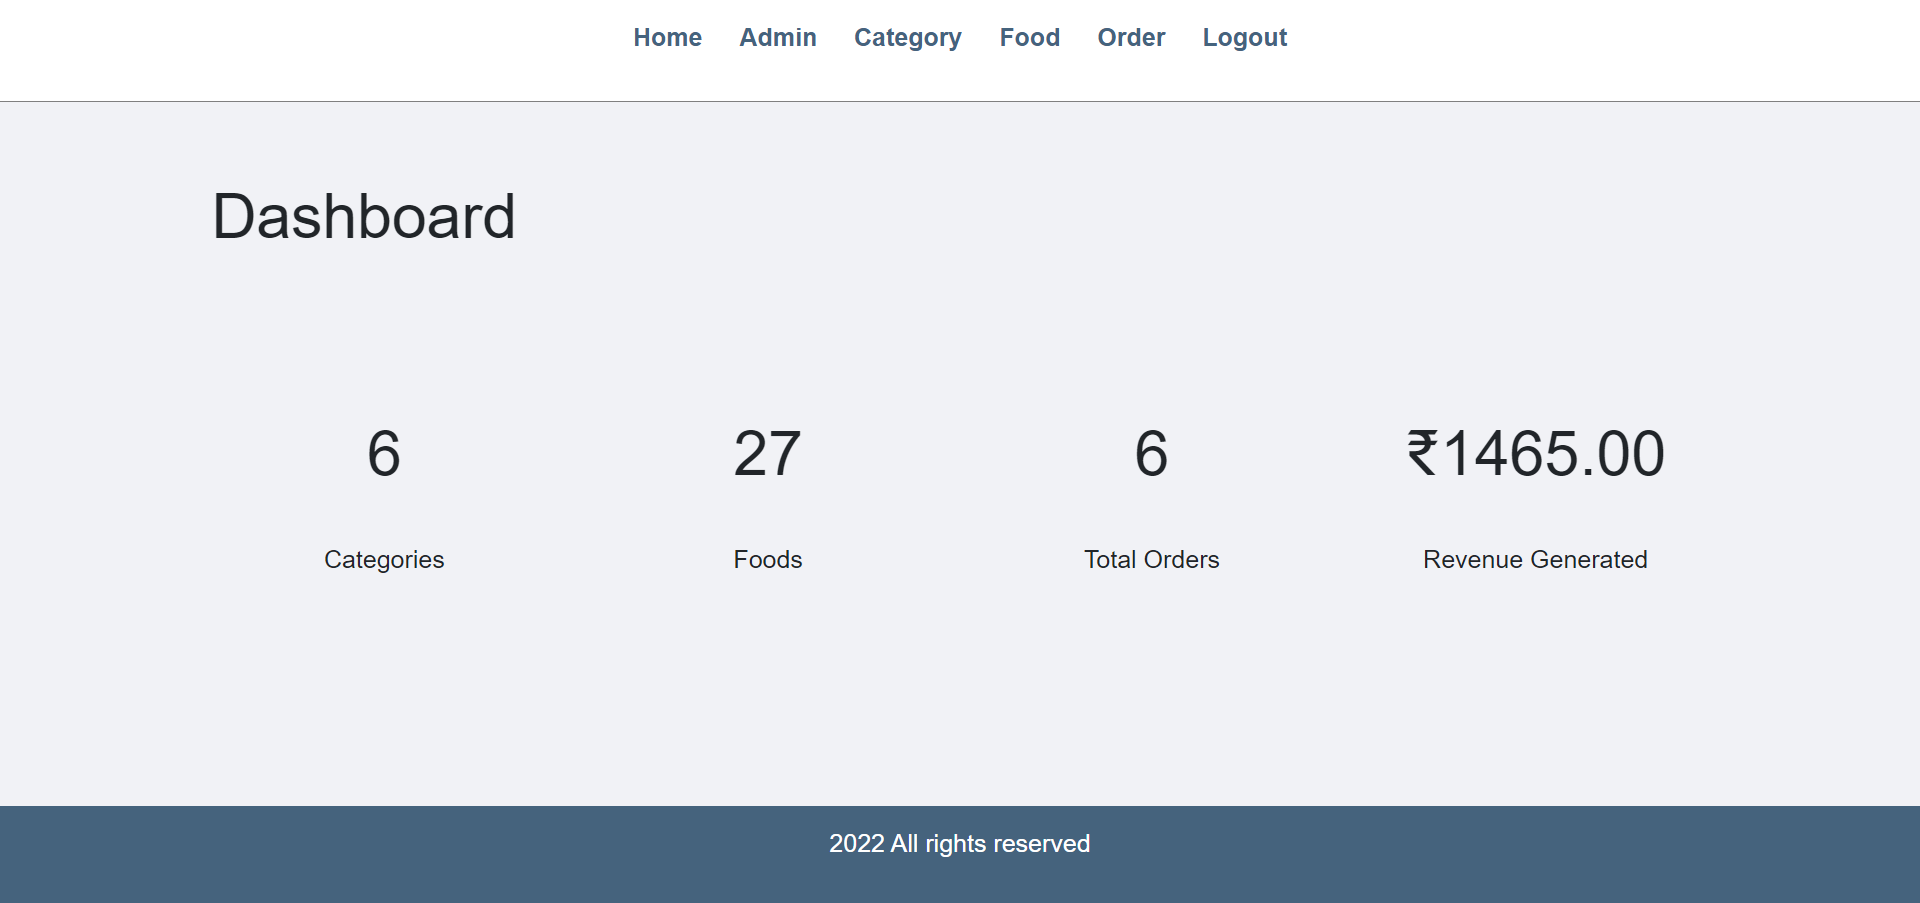
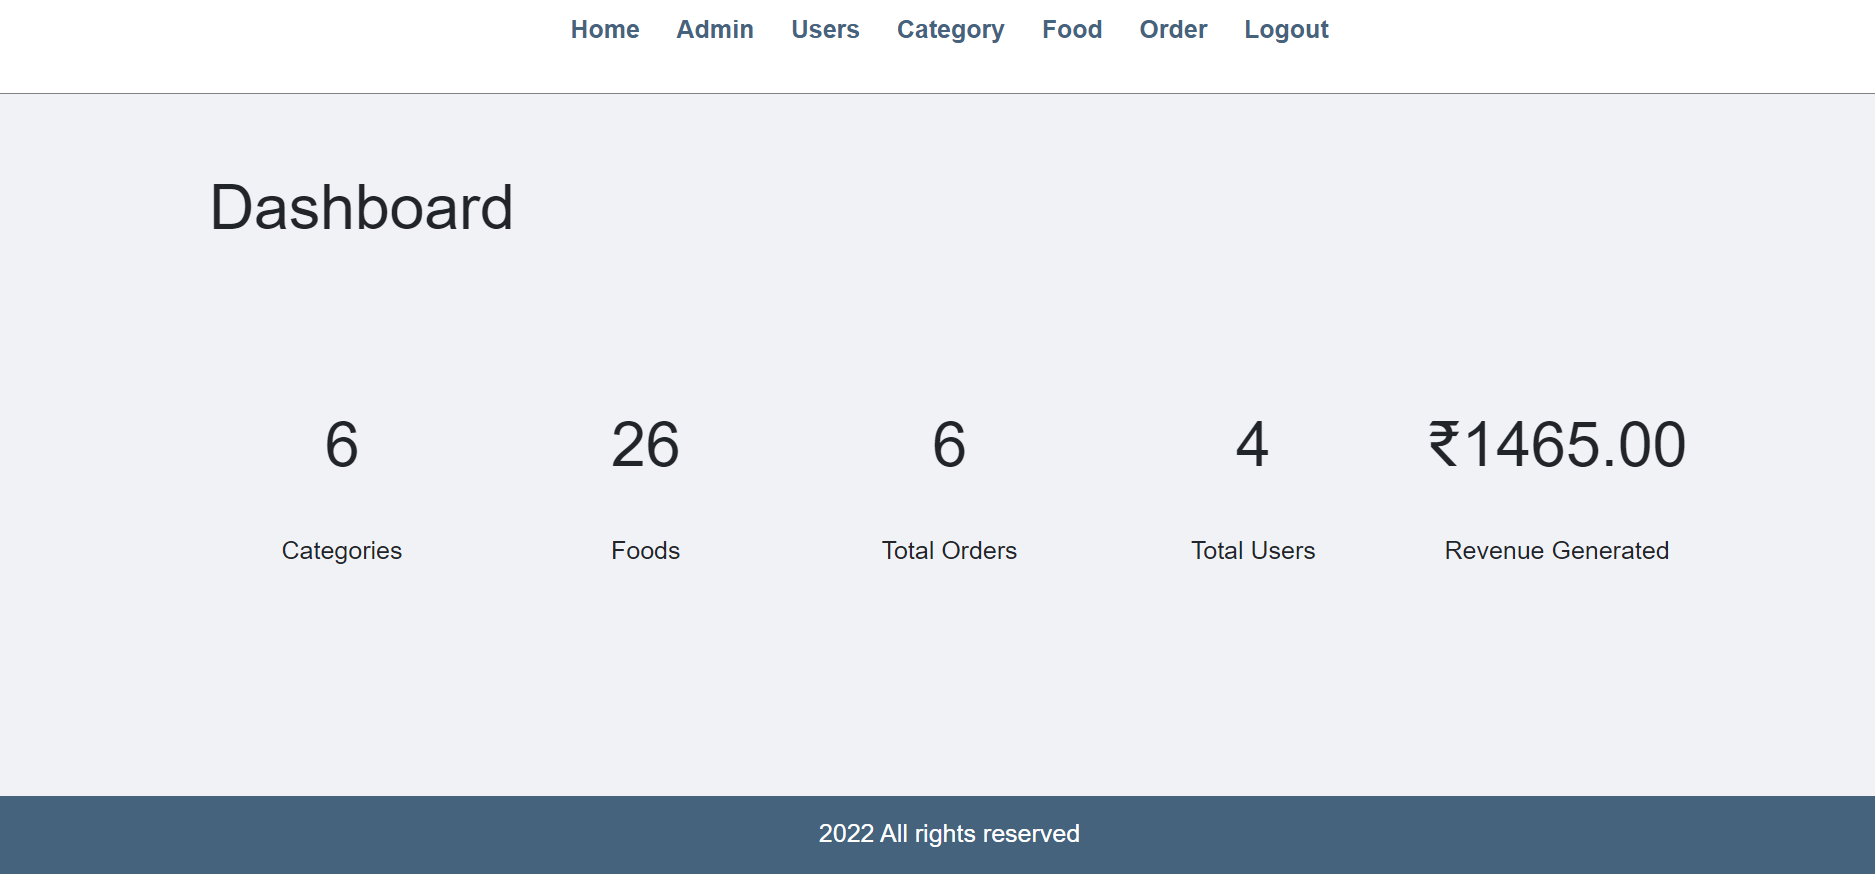
Updated admin index page
Updated admin index page and Readme screenshots

diff --git a/admin/index.php b/admin/index.php
@@ -62,6 +62,21 @@
                     <br />
                     Total Orders
                 </div>
+                <div class="col text-center">
+                    
+                    <?php 
+                        //Sql Query 
+                        $sql3 = "SELECT * FROM users";
+                        //Execute Query
+                        $res3 = mysqli_query($conn, $sql3);
+                        //Count Rows
+                        $count3 = mysqli_num_rows($res3);
+                    ?>
+
+                    <h1><?php echo $count3; ?></h1>
+                    <br />
+                    Total Users
+                </div>
 
                 <div class="col text-center">
                     
